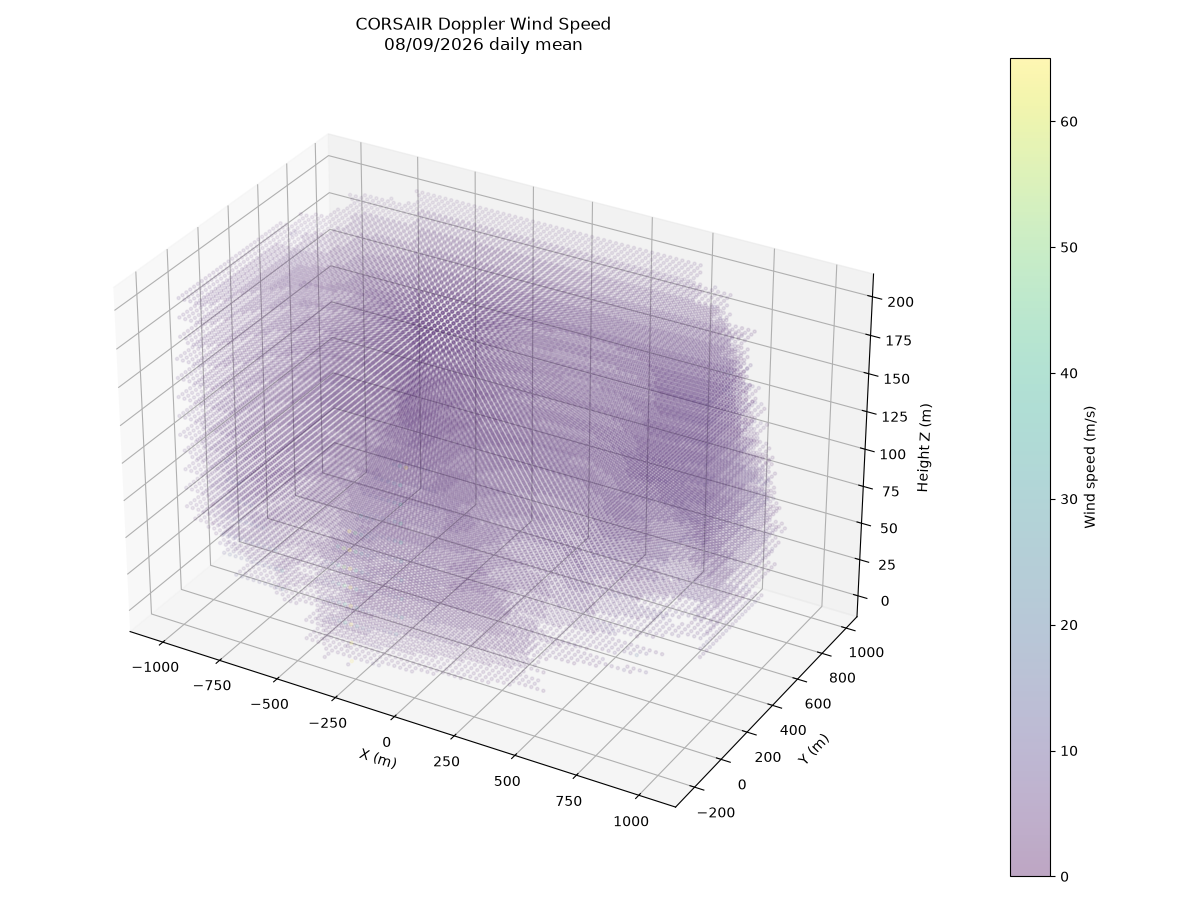
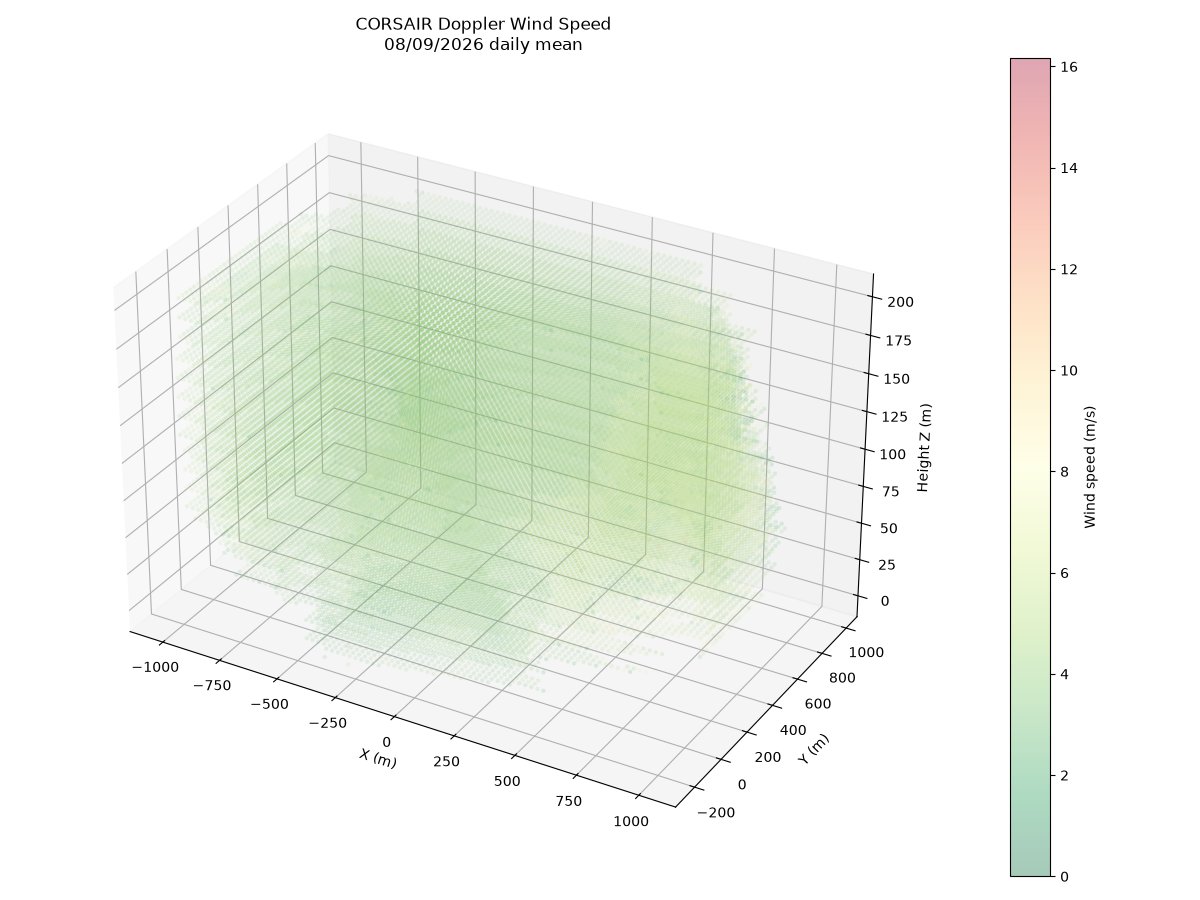
retrying and plotting the AUG 09 ddoppler ws plots

Changed region(s): [[0.1542, 0.2178, 0.6475, 0.7467], [0.8325, 0.0622, 0.8942, 0.9956]]

diff --git a/CORSAIR_WK2_EX_dopplar_pull.py b/CORSAIR_WK2_EX_dopplar_pull.py
@@ -37,6 +37,24 @@ ds = xr.concat(
 print("Files loaded:", len(nc_files))
 print("Variables:", list(ds.data_vars))
 print("Dimensions:", dict(ds.sizes))
+print("Max Wind Speed:", ds["WS"].max().values)
+print("Min Wind Speed:", ds["WS"].min().values)  # Print wind speed values for verification
+
+ws_values = ds["WS"].values
+valid_ws_values = ws_values[np.isfinite(ws_values)]
+print("Non-NaN wind speed values:", valid_ws_values)
+print("Max valid wind speed:", np.max(valid_ws_values))
+print("Min valid wind speed:", np.min(valid_ws_values))
+
+sig_ws_values = ds["sigma_WS"].values
+valid_sig_ws_values = sig_ws_values[np.isfinite(sig_ws_values)]
+print("Non-NaN sigma wind speed values:", valid_sig_ws_values)
+
+
+# Treat sigma_WS as a quality indicator, not as a correction to WS.
+MAX_SIGMA_WS = 1.0
+MAX_WIND_SPEED = np.mean(valid_ws_values) + 2 * np.std(valid_ws_values)  # Set a reasonable maximum wind speed for plotting
+print("Maximum wind speed for plotting:", MAX_WIND_SPEED)
 
 
 # Create a 3D view of the first day's daily-mean wind speed.
@@ -49,7 +67,19 @@ first_day_indices = np.flatnonzero(
 if first_day_indices.size == 0:
 	raise ValueError("No files found for 2026-08-09")
 first_day = ds.isel(time=first_day_indices)
-wind_speed = first_day["WS"].mean(dim="time")
+
+quality_mask = (
+	first_day["WS"].notnull()
+	& first_day["sigma_WS"].notnull()
+	& (first_day["sigma_WS"] <= MAX_SIGMA_WS)
+	& (first_day["WS"] >= 0)
+	& (first_day["WS"] <= MAX_WIND_SPEED)
+)
+wind_speed = first_day["WS"].where(quality_mask).mean(dim="time", skipna=True)
+wind_speed_values = np.rint(wind_speed.values)
+valid_wind_speed = np.isfinite(wind_speed_values)
+integer_wind_speed = wind_speed_values[valid_wind_speed].astype(int)
+print("Valid plotted wind-speed points:", integer_wind_speed.size)
 
 x_grid, y_grid, z_grid = np.meshgrid(
 	ds["x"].values,
@@ -61,13 +91,13 @@ x_grid, y_grid, z_grid = np.meshgrid(
 fig = plt.figure(figsize=(12, 9))
 ax = fig.add_subplot(projection="3d")
 scatter = ax.scatter(
-	x_grid.ravel(),
-	y_grid.ravel(),
-	z_grid.ravel(),
-	c=wind_speed.values.ravel(),
-	cmap="viridis",
+	x_grid.ravel()[valid_wind_speed.ravel()],
+	y_grid.ravel()[valid_wind_speed.ravel()],
+	z_grid.ravel()[valid_wind_speed.ravel()],
+	c=integer_wind_speed,
+	cmap="RdYlGn_r",
 	vmin=0,
-	vmax=35,
+	vmax=MAX_WIND_SPEED,
 	s=5,
 	alpha=0.35,
 )
@@ -83,6 +113,49 @@ ax.set_box_aspect((
 ))
 fig.colorbar(scatter, ax=ax, pad=0.1, label="Wind speed (m/s)")
 fig.tight_layout()
+
+projection_fig, (xz_ax, yz_ax) = plt.subplots(
+	1, 2, figsize=(14, 6), constrained_layout=True
+)
+xz_scatter = xz_ax.scatter(
+	x_grid.ravel()[valid_wind_speed.ravel()],
+	z_grid.ravel()[valid_wind_speed.ravel()],
+	c=integer_wind_speed,
+	cmap="RdYlGn_r",
+	vmin=0,
+	vmax=MAX_WIND_SPEED,
+	s=5,
+	alpha=0.35,
+)
+yz_ax.scatter(
+	y_grid.ravel()[valid_wind_speed.ravel()],
+	z_grid.ravel()[valid_wind_speed.ravel()],
+	c=integer_wind_speed,
+	cmap="RdYlGn_r",
+	vmin=0,
+	vmax=MAX_WIND_SPEED,
+	s=5,
+	alpha=0.35,
+)
+
+xz_ax.set_title("X-Z view")
+xz_ax.set_xlabel("X (m)")
+xz_ax.set_ylabel("Height Z (m)")
+xz_ax.set_box_aspect(1)
+yz_ax.set_title("Y-Z view")
+yz_ax.set_xlabel("Y (m)")
+yz_ax.set_ylabel("Height Z (m)")
+yz_ax.set_box_aspect(1)
+projection_fig.colorbar(
+	xz_scatter,
+	ax=(xz_ax, yz_ax),
+	orientation="horizontal",
+	location="bottom",
+	pad=0.08,
+	shrink=0.9,
+	label="Wind speed (m/s)",
+)
+projection_fig.suptitle("CORSAIR Doppler Wind Speed\n08/09/2026 daily mean")
 
 # plot_path = Path(__file__).resolve().parent / "output_plots" / "corsair_20260809_3d_wind_speed.png"
 # plot_path.parent.mkdir(exist_ok=True)
